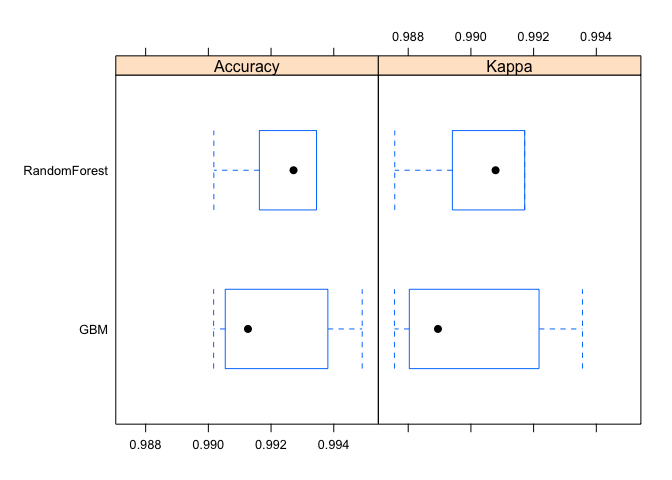
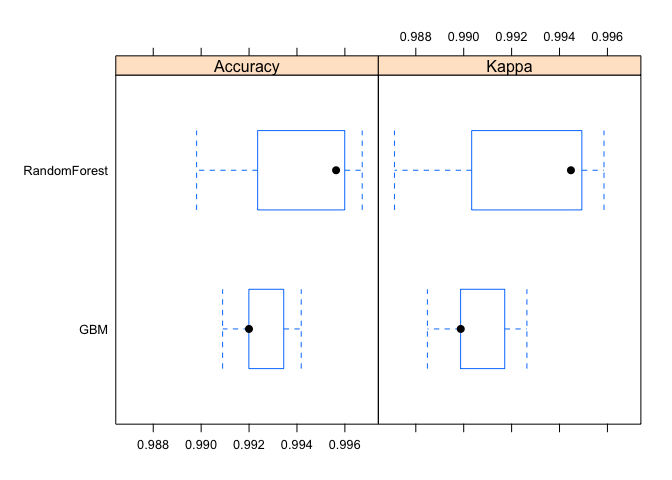
updated .Rmd and .md files and figures

diff --git a/MachineLearningProject.md b/MachineLearningProject.md
@@ -99,17 +99,17 @@ print(fit_rpart)
     ## Resampling results across tuning parameters:
     ## 
     ##   cp     Accuracy   Kappa    
-    ##   0.000  0.9221094  0.9014704
-    ##   0.005  0.7974106  0.7436579
-    ##   0.010  0.7321101  0.6598938
-    ##   0.015  0.6774411  0.5910279
-    ##   0.020  0.6447558  0.5505470
-    ##   0.025  0.5701381  0.4491893
-    ##   0.030  0.5344706  0.3994950
-    ##   0.035  0.5116144  0.3701184
-    ##   0.040  0.5021495  0.3546366
-    ##   0.045  0.4641444  0.2952941
-    ##   0.050  0.4394630  0.2482774
+    ##   0.000  0.9208706  0.8998540
+    ##   0.005  0.7885994  0.7321999
+    ##   0.010  0.7313820  0.6598313
+    ##   0.015  0.6760557  0.5911539
+    ##   0.020  0.6455525  0.5533435
+    ##   0.025  0.5666470  0.4453720
+    ##   0.030  0.5296688  0.3891868
+    ##   0.035  0.5065177  0.3587960
+    ##   0.040  0.5065177  0.3587960
+    ##   0.045  0.4669836  0.2937918
+    ##   0.050  0.4669836  0.2937918
     ## 
     ## Accuracy was used to select the optimal model using  the largest value.
     ## The final value used for the model was cp = 0.
@@ -134,7 +134,7 @@ for (k in 1:5) {
 error_rpart = round(mean(error)*100, digits = 2)
 ```
 
-The out of sample error estimations for classification tree is **3.87%**. This is the weakest model of all considered.
+The out of sample error estimations for classification tree is **3.73%**. This is the weakest model of all considered.
 
 #### Boosted regression (gbm)
 
@@ -158,37 +158,37 @@ print(fit_gbm)
     ## Resampling results across tuning parameters:
     ## 
     ##   n.trees  Accuracy   Kappa    
-    ##    50      0.9724099  0.9650937
-    ##    55      0.9744484  0.9676734
-    ##    60      0.9772874  0.9712656
-    ##    65      0.9793986  0.9739370
-    ##    70      0.9813641  0.9764245
-    ##    75      0.9826744  0.9780828
-    ##    80      0.9842034  0.9800177
-    ##    85      0.9851496  0.9812154
-    ##    90      0.9859505  0.9822281
-    ##    95      0.9866056  0.9830571
-    ##   100      0.9871149  0.9837016
-    ##   105      0.9874062  0.9840701
-    ##   110      0.9877701  0.9845304
-    ##   115      0.9879158  0.9847147
-    ##   120      0.9886435  0.9856356
-    ##   125      0.9885709  0.9855438
-    ##   130      0.9890803  0.9861880
-    ##   135      0.9893715  0.9865562
-    ##   140      0.9894442  0.9866484
-    ##   145      0.9900995  0.9874773
-    ##   150      0.9902448  0.9876612
-    ##   155      0.9910455  0.9886739
-    ##   160      0.9909728  0.9885821
-    ##   165      0.9913369  0.9890426
-    ##   170      0.9911912  0.9888582
-    ##   175      0.9914824  0.9892267
-    ##   180      0.9917008  0.9895030
-    ##   185      0.9918465  0.9896874
-    ##   190      0.9917736  0.9895948
-    ##   195      0.9919920  0.9898710
-    ##   200      0.9921376  0.9900552
+    ##    50      0.9725556  0.9652809
+    ##    55      0.9759041  0.9695181
+    ##    60      0.9775059  0.9715444
+    ##    65      0.9793259  0.9738492
+    ##    70      0.9815096  0.9766125
+    ##    75      0.9831111  0.9786394
+    ##    80      0.9839118  0.9796521
+    ##    85      0.9852226  0.9813097
+    ##    90      0.9863144  0.9826906
+    ##    95      0.9877702  0.9845318
+    ##   100      0.9882070  0.9850844
+    ##   105      0.9882069  0.9850844
+    ##   110      0.9886436  0.9856364
+    ##   115      0.9894445  0.9866493
+    ##   120      0.9896629  0.9869255
+    ##   125      0.9898812  0.9872016
+    ##   130      0.9903907  0.9878462
+    ##   135      0.9908274  0.9883985
+    ##   140      0.9910459  0.9886749
+    ##   145      0.9911186  0.9887669
+    ##   150      0.9914827  0.9892272
+    ##   155      0.9916282  0.9894113
+    ##   160      0.9919194  0.9897795
+    ##   165      0.9921377  0.9900559
+    ##   170      0.9923562  0.9903322
+    ##   175      0.9922834  0.9902401
+    ##   180      0.9922106  0.9901480
+    ##   185      0.9924290  0.9904243
+    ##   190      0.9922834  0.9902401
+    ##   195      0.9924291  0.9904241
+    ##   200      0.9925018  0.9905162
     ## 
     ## Tuning parameter 'interaction.depth' was held constant at a value of
     ##  10
@@ -243,17 +243,17 @@ print(fit_rf)
     ## Resampling results across tuning parameters:
     ## 
     ##   mtry  Accuracy   Kappa    
-    ##    2    0.9906094  0.9881209
-    ##    7    0.9922836  0.9902392
-    ##   12    0.9921382  0.9900557
-    ##   17    0.9915558  0.9893185
-    ##   22    0.9912646  0.9889500
-    ##   27    0.9903911  0.9878452
-    ##   32    0.9897362  0.9870159
-    ##   37    0.9888625  0.9859113
+    ##    2    0.9906094  0.9881201
+    ##    7    0.9933031  0.9915284
+    ##   12    0.9941040  0.9925413
+    ##   17    0.9930120  0.9911599
+    ##   22    0.9925753  0.9906068
+    ##   27    0.9921384  0.9900541
+    ##   32    0.9914833  0.9892255
+    ##   37    0.9908282  0.9883967
     ## 
     ## Accuracy was used to select the optimal model using  the largest value.
-    ## The final value used for the model was mtry = 7.
+    ## The final value used for the model was mtry = 12.
 
 ``` r
 plot(fit_rf)
@@ -293,13 +293,13 @@ summary(results)
     ## 
     ## Accuracy 
     ##                Min. 1st Qu. Median   Mean 3rd Qu.   Max. NA's
-    ## GBM          0.9902  0.9905 0.9913 0.9921  0.9938 0.9949    0
-    ## RandomForest 0.9902  0.9916 0.9927 0.9923  0.9934 0.9934    0
+    ## GBM          0.9909  0.9920 0.9920 0.9925  0.9934 0.9942    0
+    ## RandomForest 0.9898  0.9924 0.9956 0.9941  0.9960 0.9967    0
     ## 
     ## Kappa 
     ##                Min. 1st Qu. Median   Mean 3rd Qu.   Max. NA's
-    ## GBM          0.9876  0.9880 0.9889 0.9901  0.9922 0.9936    0
-    ## RandomForest 0.9876  0.9894 0.9908 0.9902  0.9917 0.9917    0
+    ## GBM          0.9885  0.9899 0.9899 0.9905  0.9917 0.9926    0
+    ## RandomForest 0.9871  0.9903 0.9945 0.9925  0.9949 0.9959    0
 
 ``` r
 bwplot(results)
@@ -310,20 +310,20 @@ bwplot(results)
 Model choice and prediction
 ---------------------------
 
-Model comparison suggests that among checked models, boosted regression perform as well as random forests, with very slight differences. Boosted regression is a bit faster (on the machine this report is done with parameters described above) than random forests which is reason good enough to choose it as the final model.
+Model comparison suggests that among checked models, boosted regression perform as well as random forests, with very slight differences. The random forests model was chosen as the final model.
 
 One can check the model accuracy on full (not folded) trainSub sample and check out of sample error on the validSub sample:
 
 ``` r
 set.seed(333)
-grid <- expand.grid(fit_gbm$bestTune)
-model <- train(classe~., data = trainSub, method = 'gbm', tuneGrid = grid, verbose = FALSE)
+grid <- expand.grid(fit_rf$bestTune)
+model <- train(classe~., data = trainSub, method = 'rf', tuneGrid = grid, verbose = FALSE)
 
 prediction <- predict(model, validSub)
 error = 1- sum(as.numeric(prediction) == as.numeric(validSub$classe)) / length(prediction)
 ```
 
-The training model accuracy is **99.49%** and the out of sample error on validSub data set for this model is **0.51%**
+The training model accuracy is **99.52%** and the out of sample error on validSub data set for this model is **0.48%**
 
 Test sample prediction
 ----------------------
@@ -332,7 +332,7 @@ The final test sample prediction gives the following results:
 
 ``` r
 set.seed(3234)
-final_prediction <- predict(model, testingData, n.trees=200)
+final_prediction <- predict(model, testingData)
 final_prediction
 ```
 
